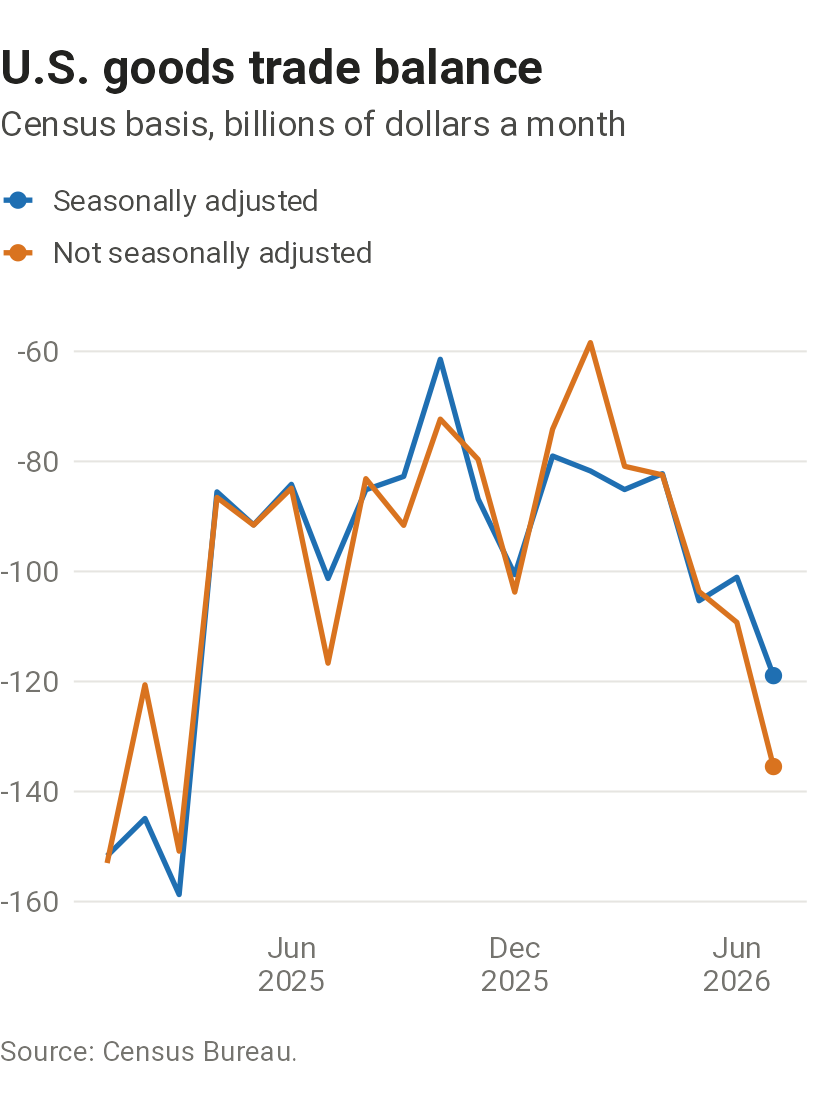
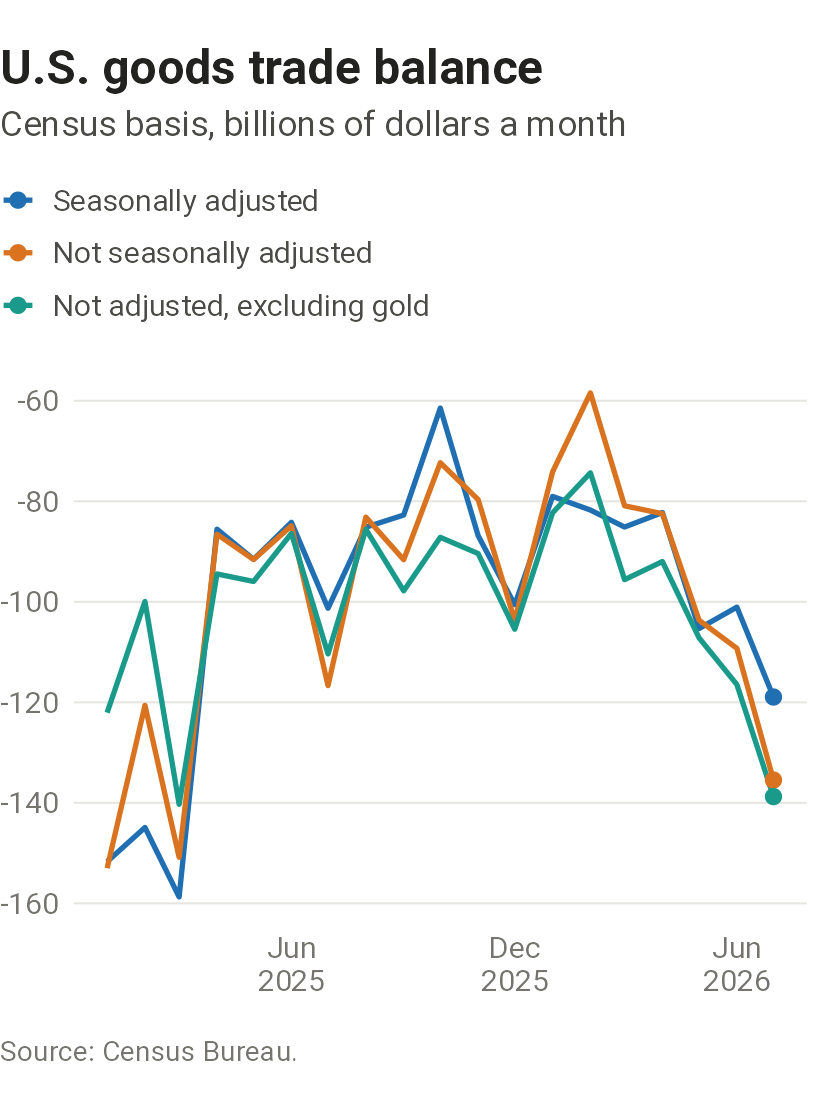
Add computers and chips by country and a balance excluding gold to the trade release page
Claude-Session: https://claude.ai/code/session_01Buc4BJv7aLDsfrJCwRNkUG

diff --git a/charts/trade-release/spec.md b/charts/trade-release/spec.md
@@ -16,6 +16,7 @@ What changed in the latest monthly trade report, seasonally adjusted and not? Se
 | FT-900 exhibit 19: goods by country, Census basis, seasonally adjusted | Same | `fetch_census_ft900_countries()` | Balance, exports, imports for the latest two months |
 | Goods by end-use category, not seasonally adjusted | Census international trade API, `timeseries/intltrade/{imports,exports}/enduse` | `fetch_census_trade_end_use()` | `GEN_VAL_MO`, `ALL_VAL_MO` at levels EU1 and EU5 |
 | Goods by product and country, not seasonally adjusted | Census trade store | `read_census_trade()` | `gen_val`, `all_val`, `con_val`, `cal_dut` |
+| Product codes with end-use categories and descriptions | Census trade store | `read_census_trade_codes()` | `commodity`, `description`, `end_use` |
 | Release dates | Census release schedule | `fetch_census_trade_schedule()` | First table (FT-900) |
 
 Exhibits are read from `current_press_release/exh{n}.xlsx`, which holds only the latest release.
@@ -24,9 +25,11 @@ Exhibits are read from `current_press_release/exh{n}.xlsx`, which holds only the
 
 - **Headline table:** exhibit 1, billions of dollars. Change is the latest month less the previous month as revised. Revision is the previous month as revised less the previous month as published a month earlier.
 - **Goods balance chart:** Census basis. Seasonally adjusted is exhibit 6 total exports less total imports. Not seasonally adjusted is the sum of the API's EU1 categories, exports less general imports.
+- **Goods balance excluding gold:** the not seasonally adjusted balance less the gold balance from the trade store. Gold is `product_group()` in `R/trade_products.R`: heading 7108 and the heading 7115 lines whose description names gold, as on the goods balance chart. Census does not seasonally adjust gold at this detail, so there is no seasonally adjusted version.
 - **Goods in chained dollars:** exhibit 10 totals. Monthly average over the current quarter to date and over the previous quarter. The percent change is annualized, (current / previous)^4 - 1. The balance is exports less imports in chained dollars, as BEA reports it.
 - **By category:** exhibit 6 categories, latest less previous month. API EU1 categories, latest month less the same month a year earlier. The API's export code 6 (exports n.e.c. and reexports) is added to other goods (5), as in exhibit 6.
 - **By product:** API EU5 categories, the ten largest absolute changes from a year earlier for each flow.
+- **Computers, chips, and telecom equipment by country:** general imports from the trade store in the latest month and a year earlier, by `product_group()`: computers and parts (end use 21300, 21301) and semiconductors and telecom equipment (21320, 21400). Each product is classified with the code list for its year. The eight countries with the most imports of the two combined in the latest month; the rest are summed.
 - **By country:** exhibit 19 balances for single countries; its areas (European Union, CAFTA-DR, South/Central America, all other countries) are left out. The twelve with the largest absolute balance in the latest month. The change from a year earlier is exports less general imports from the trade store, matched to exhibit 19 by country name.
 - **Tariffs:** calculated duties (`cal_dut`) from the trade store by month, last 25 months. The tariff rate is duties over imports for consumption (`con_val`). Countries are the ten with the most duties in the latest month.
 
